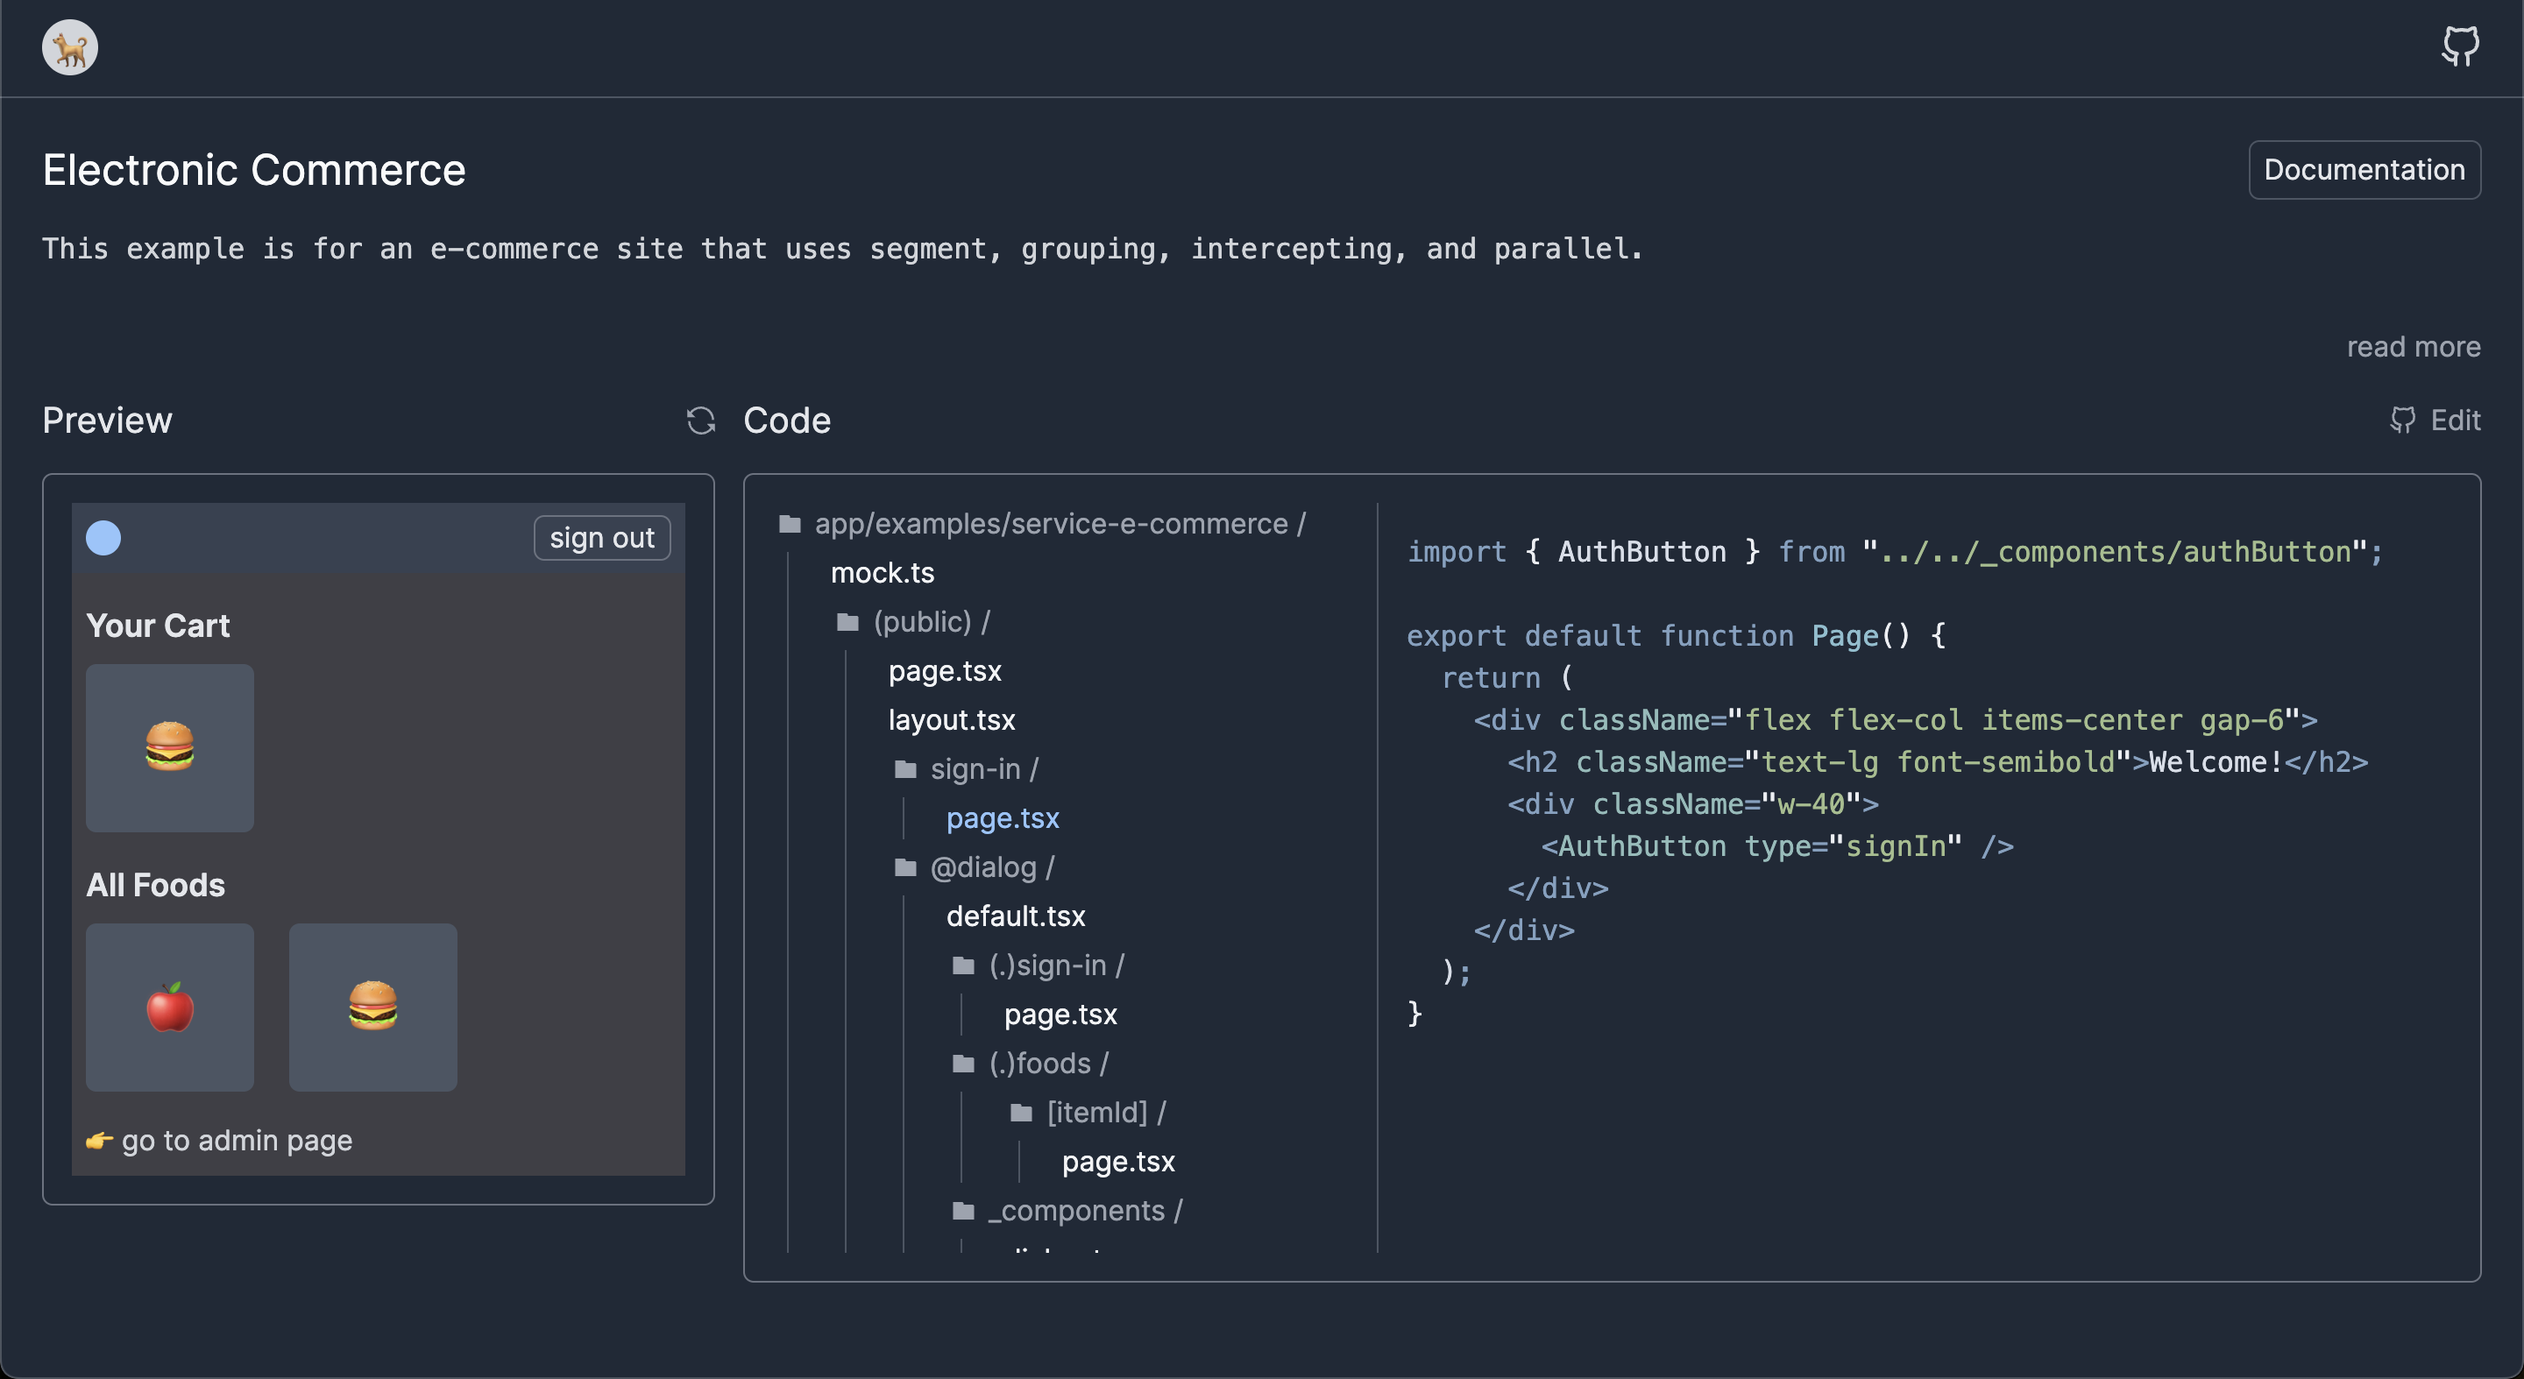
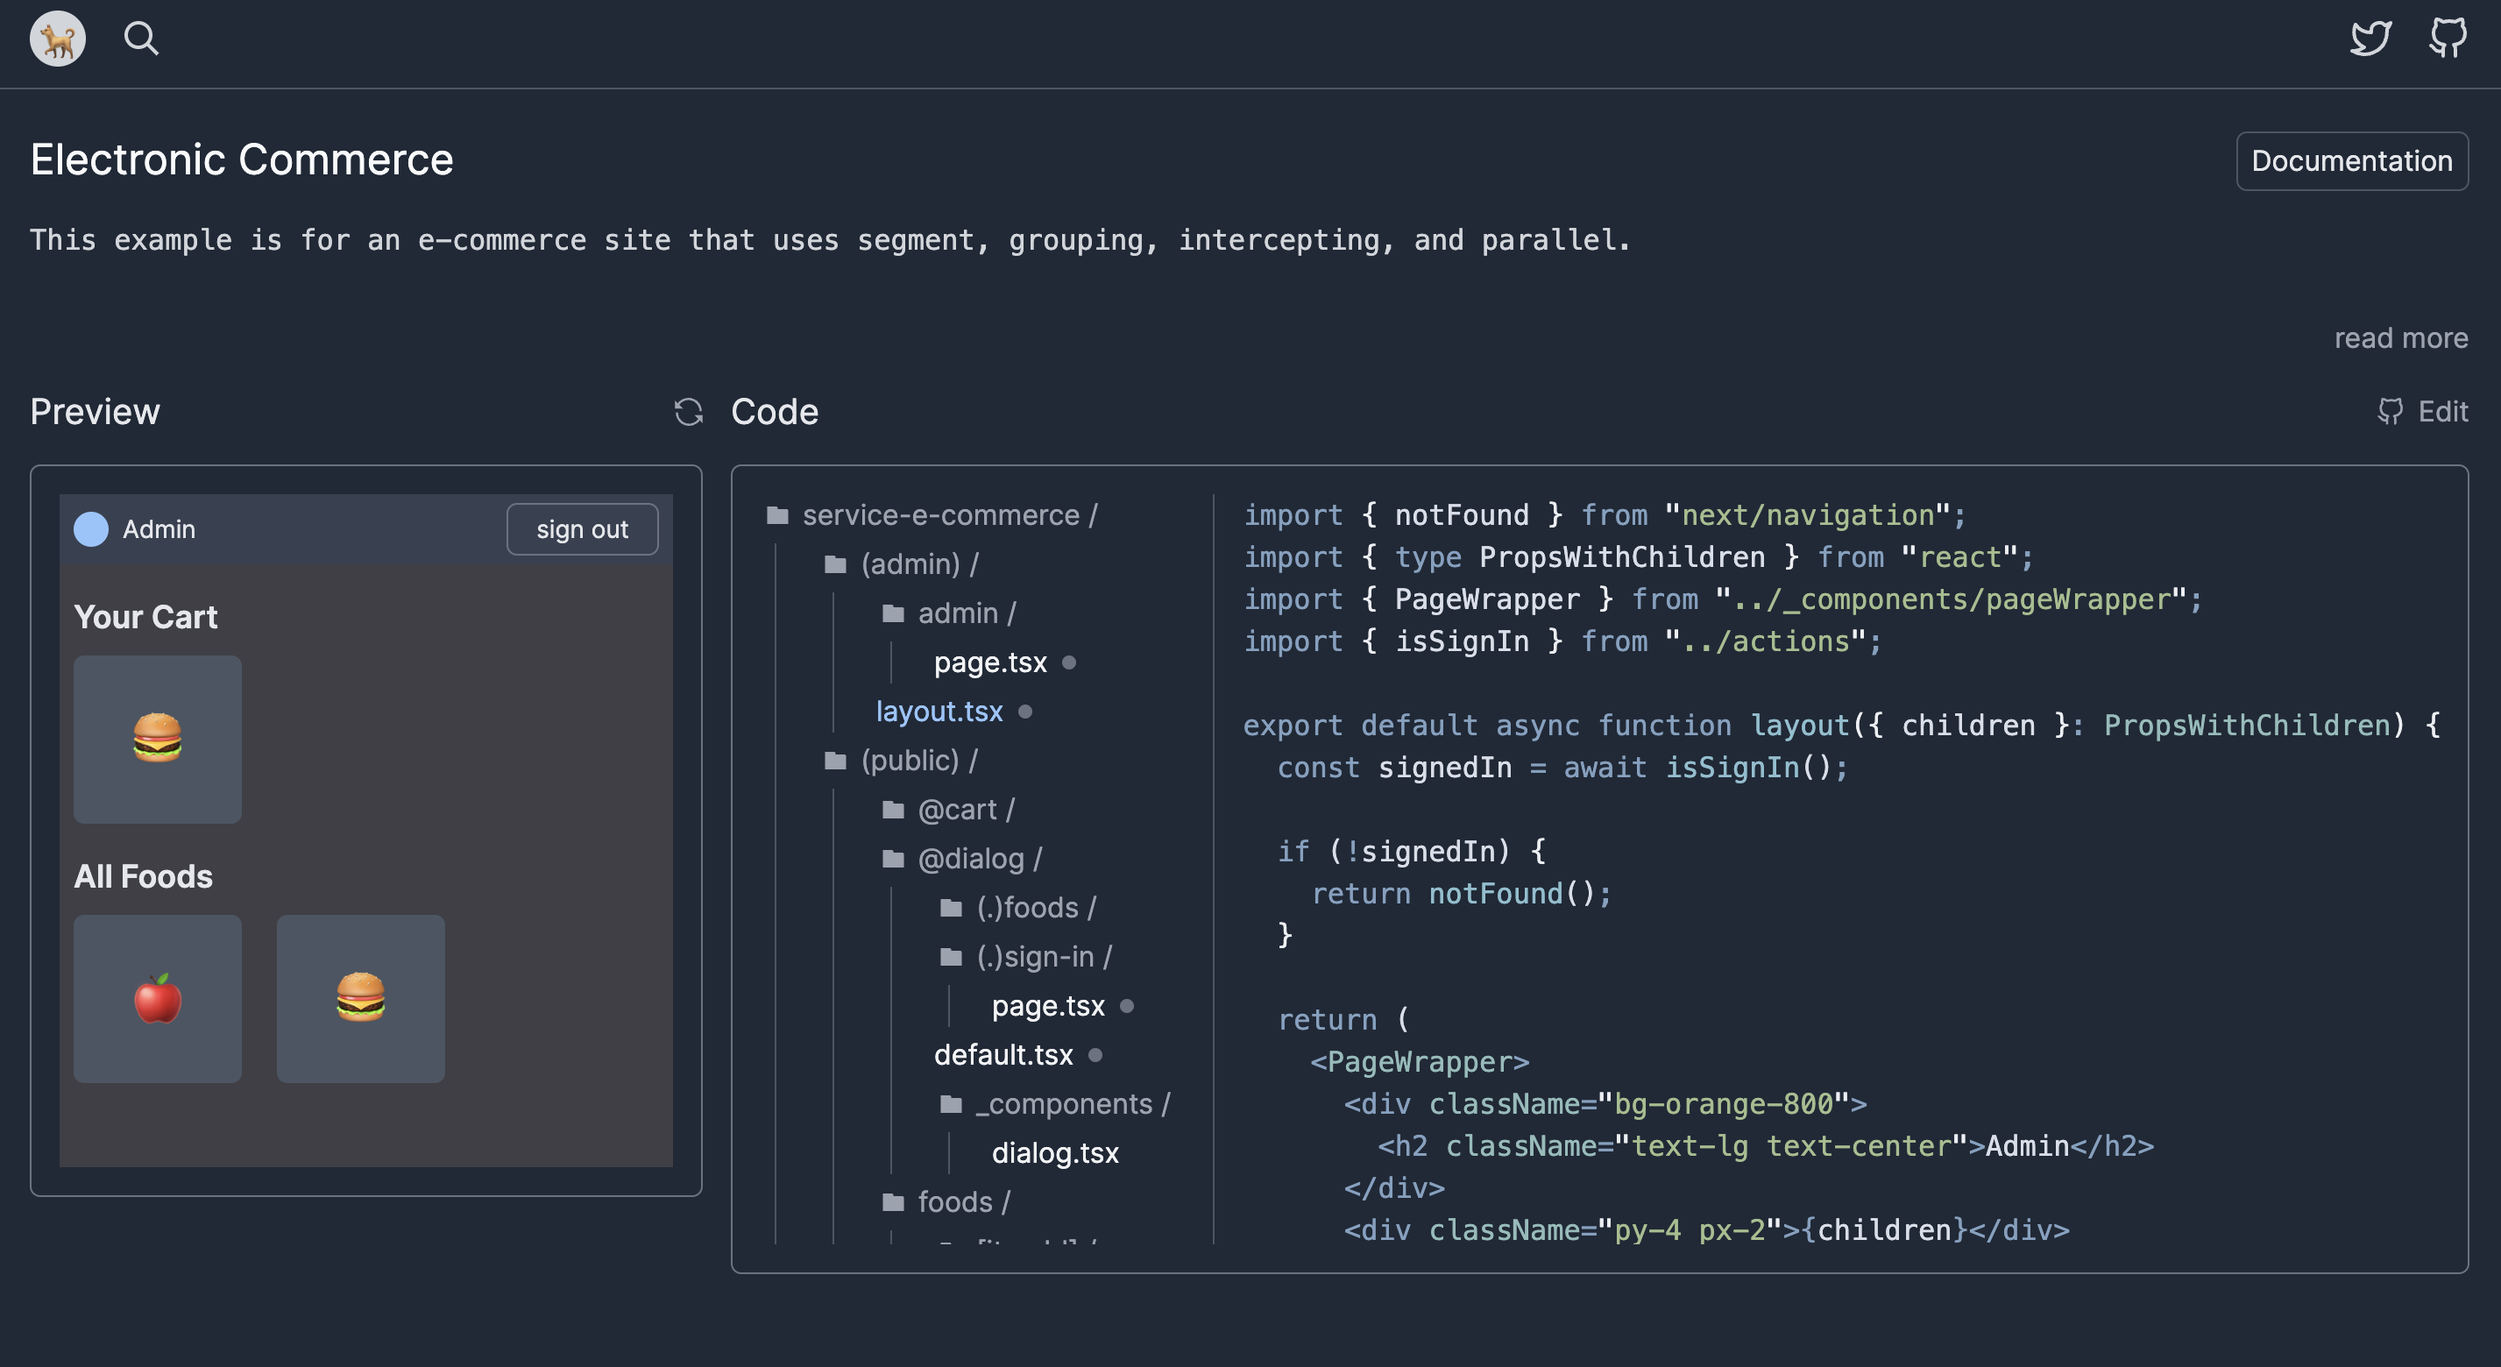
refactor: update e-commerce demo

diff --git a/src/app/_components/fileTree.tsx b/src/app/_components/fileTree.tsx
@@ -11,8 +11,6 @@ export type Props = {
   code: Record<string, string>;
 };
 
-const basePath = "src/app/examples/";
-
 // https://nextjs.org/docs/getting-started/project-structure
 const reservedFiles = [
   "layout.tsx",
@@ -30,7 +28,7 @@ export function FileTree({ exampleName, filePaths, code }: Props) {
   const params = useSearchParams();
   const filePathFromParams = params.get("file-path");
   const paths = filePaths
-    .map((path) => `${basePath}${path}`)
+    .map((path) => `${exampleName}/${path}`)
     .sort((a, b) => {
       if (
         b.includes("_components") ||
@@ -42,18 +40,17 @@ export function FileTree({ exampleName, filePaths, code }: Props) {
 
       return 1;
     });
-  const initialPath =
-    filePathFromParams ?? paths[0]?.replace(basePath, "") ?? "";
+  const initialPath = filePathFromParams ?? paths[0] ?? "";
   const [selectedPath, setSelectedPath] = useState(initialPath);
-  const tree = createTree(exampleName, paths);
+  const tree = createTree(paths);
+
   const renderTree = (node: Tree, i: number, path = "") => {
     return Object.keys(node).map((key) => {
-      const newPath = path ? `${path}/${key}` : `src/${key}`;
+      const newPath = path ? `${path}/${key}` : `${key}`;
       const hasChildren = Object.keys(node[key]).length > 0;
-      const basePathWithName = `${basePath}${exampleName}/`;
+      const basePathWithName = `${exampleName}/`;
       const position = i === 0 ? 0 : 24;
 
-      console.log(key);
       if (!hasChildren) {
         return (
           <li
@@ -115,12 +112,12 @@ export function FileTree({ exampleName, filePaths, code }: Props) {
   };
 
   useEffect(() => {
-    setSelectedPath(initialPath);
-  }, [initialPath]);
+    setSelectedPath(initialPath.replace(`${exampleName}/`, ""));
+  }, [initialPath, exampleName]);
 
   return (
     <div className="text-gray-100 flex flex-col md:flex-row md:h-[calc(100vh_-_360px)]">
-      <div className="min-w-max overflow-y-auto pr-10 max-h-48 md:max-h-none mb-2 md:mb-0">
+      <div className="min-w-max overflow-y-auto pr-6 max-h-48 md:max-h-none mb-2 md:mb-0">
         {renderTree(tree, 0)}
       </div>
       {Object.keys(code).length !== 0 && (
@@ -136,17 +133,12 @@ type Tree = {
   [key: string]: Tree;
 };
 
-function createTree(name: string, paths: Props["filePaths"]) {
+function createTree(paths: Props["filePaths"]) {
   const tree: Tree = {};
 
   for (const path of paths) {
-    let pathParts = path.split("/");
+    const pathParts = path.split("/");
     let currentPart = tree;
-
-    // If the path starts with "src/app/examples", treat it as a single key
-    if (pathParts.slice(0, 3).join("/") === "src/app/examples") {
-      pathParts = [`app/examples/${name}`, ...pathParts.slice(3)];
-    }
 
     for (const part of pathParts) {
       if (!currentPart[part]) {

diff --git a/src/app/examples/(showcases)/service-e-commerce/(public)/layout.tsx b/src/app/examples/(showcases)/service-e-commerce/(public)/layout.tsx
@@ -1,8 +1,8 @@
+import { Button } from "@/app/_components/button";
 import Link from "next/link";
 import { type PropsWithChildren } from "react";
-import { AuthButton } from "../_components/authButton";
 import { PageWrapper } from "../_components/pageWrapper";
-import { isSignIn } from "../_utils/auth";
+import { isSignIn, signout } from "../actions";
 
 type Props = PropsWithChildren<{
   cart: React.ReactNode;
@@ -15,23 +15,40 @@ export default async function Layout({ cart, dialog, children }: Props) {
   return (
     <PageWrapper>
       <header className="w-full flex items-center justify-between py-1 px-2 bg-gray-700 h-10">
-        <div
-          className={[
-            "w-5 h-5 rounded-full",
-            signedIn ? ["bg-blue-300 "] : [],
-          ].join(" ")}
-        />
         {signedIn ? (
-          <div className="w-fit">
-            <AuthButton type="signOut" />
-          </div>
+          <>
+            <div className="flex items-center gap-2">
+              <div
+                className={[
+                  "w-5 h-5 rounded-full",
+                  signedIn ? ["bg-blue-300 "] : [],
+                ].join(" ")}
+              />
+              <Link
+                href="/examples/service-e-commerce/admin"
+                className="text-sm hover:text-blue-300"
+              >
+                Admin
+              </Link>
+            </div>
+            <div className="w-fit">
+              <form action={signout}>
+                <Button type="submit" size="sm">
+                  sign out
+                </Button>
+              </form>
+            </div>
+          </>
         ) : (
-          <Link
-            href="/examples/service-e-commerce/sign-in"
-            className="border border-gray-500 px-4 rounded-md hover:text-blue-300"
-          >
-            sign in
-          </Link>
+          <>
+            <div />
+            <Link
+              href="/examples/service-e-commerce/sign-in"
+              className="text-sm border border-gray-500 py-1 px-4 rounded-md hover:text-blue-300"
+            >
+              sign in
+            </Link>
+          </>
         )}
       </header>
       <div className="py-4 px-2 flex flex-col gap-4">

diff --git a/src/app/examples/(showcases)/service-e-commerce/(public)/page.tsx b/src/app/examples/(showcases)/service-e-commerce/(public)/page.tsx
@@ -1,30 +1,16 @@
-import Link from "next/link";
 import { Suspense } from "react";
 import { ImageItem, ImageList } from "../_components/imageList";
 import { Section } from "../_components/section";
 import { ImageSkeletons } from "../_components/skeleton";
-import { isSignIn } from "../_utils/auth";
 import { getItems } from "../_utils/items";
 
 export default async function Page() {
-  const signedIn = await isSignIn();
-
   return (
-    <>
-      <Section title="All Foods">
-        <Suspense fallback={<ImageSkeletons num={3} />}>
-          <Items />
-        </Suspense>
-      </Section>
-      {signedIn && (
-        <Link
-          href="/examples/service-e-commerce/admin"
-          className="text-gray-300"
-        >
-          👉 go to admin page
-        </Link>
-      )}
-    </>
+    <Section title="All Foods">
+      <Suspense fallback={<ImageSkeletons num={3} />}>
+        <Items />
+      </Suspense>
+    </Section>
   );
 }
 

diff --git a/src/app/_components/button.tsx b/src/app/_components/button.tsx
@@ -1,12 +1,19 @@
 import { ButtonHTMLAttributes, PropsWithChildren } from "react";
 
-type Props = PropsWithChildren<ButtonHTMLAttributes<HTMLButtonElement>>;
+type Props = PropsWithChildren<ButtonHTMLAttributes<HTMLButtonElement>> & {
+  size?: "sm" | "md";
+  wFull?: boolean;
+};
 
-export function Button({ children, ...rest }: Props) {
+export function Button({ children, size = "md", wFull, ...rest }: Props) {
   return (
     <button
       type="button"
-      className="border border-gray-500 rounded-md py-1 px-4 hover:text-blue-300 hover:border-blue-300"
+      className={[
+        "border border-gray-500 rounded-md py-1 px-4 hover:text-blue-300 hover:border-blue-300",
+        size === "sm" ? ["text-sm"] : [],
+        wFull ? ["w-full"] : [],
+      ].join(" ")}
       {...rest}
     >
       {children}

diff --git a/src/app/examples/(showcases)/service-e-commerce/(public)/@dialog/(.)sign-in/page.tsx b/src/app/examples/(showcases)/service-e-commerce/(public)/@dialog/(.)sign-in/page.tsx
@@ -1,7 +1,8 @@
 "use client";
 
-import { AuthButton } from "../../../_components/authButton";
-import { Button } from "../../../_components/button";
+import { Button } from "@/app/_components/button";
+import { SignInButton } from "../../../_components/signInButton";
+import { signIn } from "../../../actions";
 import { Dialog } from "../_components/dialog";
 
 export default function Page() {
@@ -9,7 +10,9 @@ export default function Page() {
     <Dialog>
       <div className="flex flex-col items-center justify-center h-full">
         <div className="flex flex-col gap-5 w-full">
-          <AuthButton type="signIn" isInterceptingRouter />
+          <form action={signIn}>
+            <SignInButton />
+          </form>
           <Button
             onClick={() => {
               window.location.reload();

diff --git a/src/app/examples/template.tsx b/src/app/examples/template.tsx
@@ -79,13 +79,13 @@ export default function Template({ children }: PropsWithChildren) {
 
   return (
     <div className="flex flex-col gap-4">
-      <div className="flex justify-between items-center">
+      <div className="flex flex-col-reverse sm:flex-row justify-between items-end sm:items-center gap-2">
         {loading ? (
           <SkeletonBox>
-            <div className="h-8 bg-gray-700 w-64 rounded-md" />
+            <div className="h-8 bg-gray-700 w-72 rounded-md self-start" />
           </SkeletonBox>
         ) : (
-          <h2 className="text-2xl text-gray-50">{meta?.title}</h2>
+          <h2 className="text-2xl text-gray-50 self-start">{meta?.title}</h2>
         )}
         <Link
           href={meta?.doc ?? "https://nextjs.org/docs"}

diff --git a/src/app/layout.tsx b/src/app/layout.tsx
@@ -1,3 +1,4 @@
+import { BASE_URL } from "@/constants";
 import { GoogleAnalytics } from "@next/third-parties/google";
 import { type Metadata } from "next";
 import { Inter } from "next/font/google";
@@ -13,16 +14,15 @@ const inter = Inter({ subsets: ["latin"] });
 const siteName = "Next.js App Router Training";
 const description =
   "Introducing various basic patterns using Next.js' app router with simplified code.";
-const url = "https://nextjs-app-router-training.vercel.app";
 
 export const metadata: Metadata = {
   title: siteName,
   description,
-  metadataBase: new URL(url),
+  metadataBase: new URL(BASE_URL),
   openGraph: {
     title: siteName,
     description,
-    url,
+    url: BASE_URL,
     siteName,
     type: "website",
   },

diff --git a/src/app/examples/(showcases)/service-e-commerce/(public)/@cart/page.tsx b/src/app/examples/(showcases)/service-e-commerce/(public)/@cart/page.tsx
@@ -2,7 +2,7 @@ import { Suspense } from "react";
 import { ImageItem, ImageList } from "../../_components/imageList";
 import { Section } from "../../_components/section";
 import { ImageSkeletons } from "../../_components/skeleton";
-import { isSignIn } from "../../_utils/auth";
+import { isSignIn } from "../../actions";
 import { items } from "../../mock";
 
 export default async function Page() {
@@ -24,7 +24,7 @@ export default async function Page() {
 async function Items() {
   // e.g. fetch
   const allItems = await new Promise<(typeof items)[number][]>((resolve) => {
-    setTimeout(() => resolve(items.filter(({ id }) => id === 1)), 3000);
+    setTimeout(() => resolve(items.filter(({ id }) => id === 1)), 2000);
   });
 
   return (

diff --git a/src/app/examples/(showcases)/service-e-commerce/actions.ts b/src/app/examples/(showcases)/service-e-commerce/actions.ts
@@ -1,0 +1,23 @@
+"use server";
+
+import { cookies } from "next/headers";
+import { redirect } from "next/navigation";
+import { COOKIE_NAME } from "./constants";
+
+const path = "/examples/service-e-commerce";
+
+export async function signIn() {
+  // e.g. simulate a request to the server
+  await new Promise((resolve) => setTimeout(resolve, 1000));
+
+  cookies().set(COOKIE_NAME, "true");
+  redirect("/examples/service-e-commerce");
+}
+
+export async function signout() {
+  cookies().delete(COOKIE_NAME);
+}
+
+export async function isSignIn() {
+  return cookies().get(COOKIE_NAME)?.value === "true";
+}

diff --git a/src/constants.ts b/src/constants.ts
@@ -1,10 +1,10 @@
+export const BASE_URL = "https://nextjs-app-router-training.vercel.app";
+
 // https://github.com/vercel/next.js/issues/44062#issuecomment-1544028776
 // next.js doesn't support localhost in production mode/build
 // When you use dynamic mode(e.g. headers, cookies) or dynamic = "force-dynamic",
 // the build step will be green but some features like revalidatePath/Tag won't work
-
-export const NOW_API_ENDPOINT =
-  "https://nextjs-app-router-training.vercel.app/api/now";
+export const NOW_API_ENDPOINT = `${BASE_URL}/api/now`;
 
 export type NowResponse = {
   now: number;

diff --git a/src/app/examples/(showcases)/service-e-commerce/(admin)/admin/page.tsx b/src/app/examples/(showcases)/service-e-commerce/(admin)/admin/page.tsx
@@ -1,15 +1,15 @@
-import Link from "next/link";
+import { Link } from "@/app/_components/link";
 
 export default function Page() {
   return (
-    <div>
+    <div className="flex flex-col gap-4">
       <p>
         Here is an admin page isolated from "(public)" root layout, and
         "(admin)" root layout validates the cookie so all pages under "(admin)"
         can't access from non-admin users.
       </p>
       <Link href="/examples/service-e-commerce/admin?file-path=(admin)/layout.tsx">
-        check
+        check the validation code
       </Link>
     </div>
   );

diff --git a/src/app/examples/(showcases)/service-e-commerce/(public)/sign-in/page.tsx b/src/app/examples/(showcases)/service-e-commerce/(public)/sign-in/page.tsx
@@ -1,11 +1,14 @@
-import { AuthButton } from "../../_components/authButton";
+import { SignInButton } from "../../_components/signInButton";
+import { signIn } from "../../actions";
 
 export default function Page() {
   return (
     <div className="flex flex-col items-center gap-6">
       <h2 className="text-lg font-semibold">Welcome!</h2>
       <div className="w-40">
-        <AuthButton type="signIn" />
+        <form action={signIn}>
+          <SignInButton />
+        </form>
       </div>
     </div>
   );
